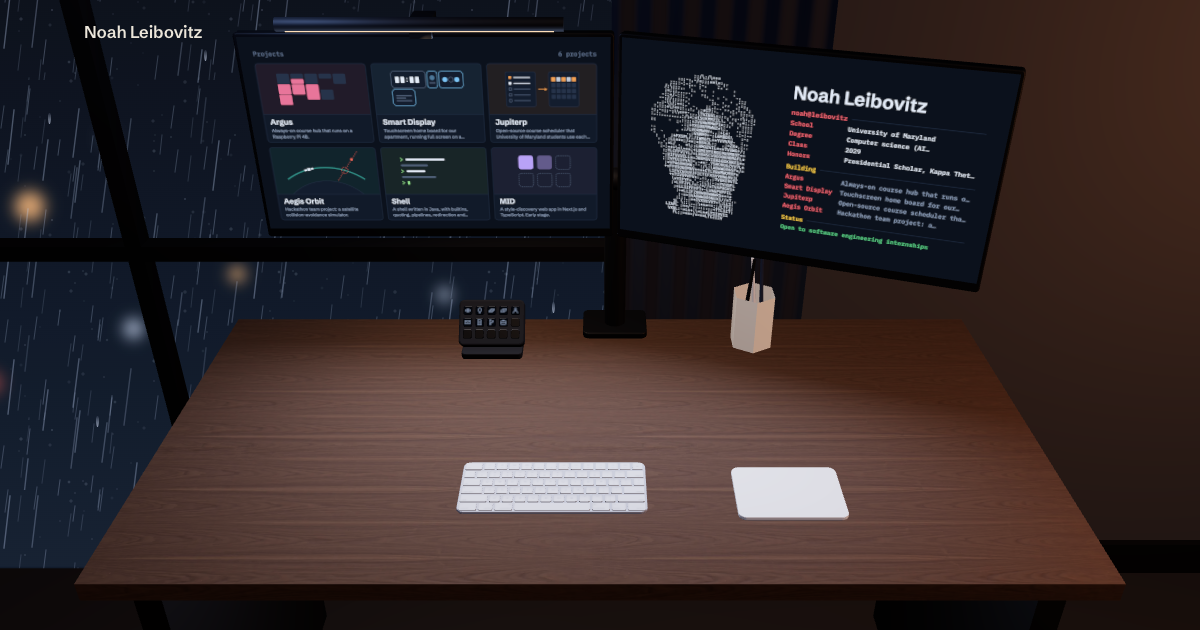
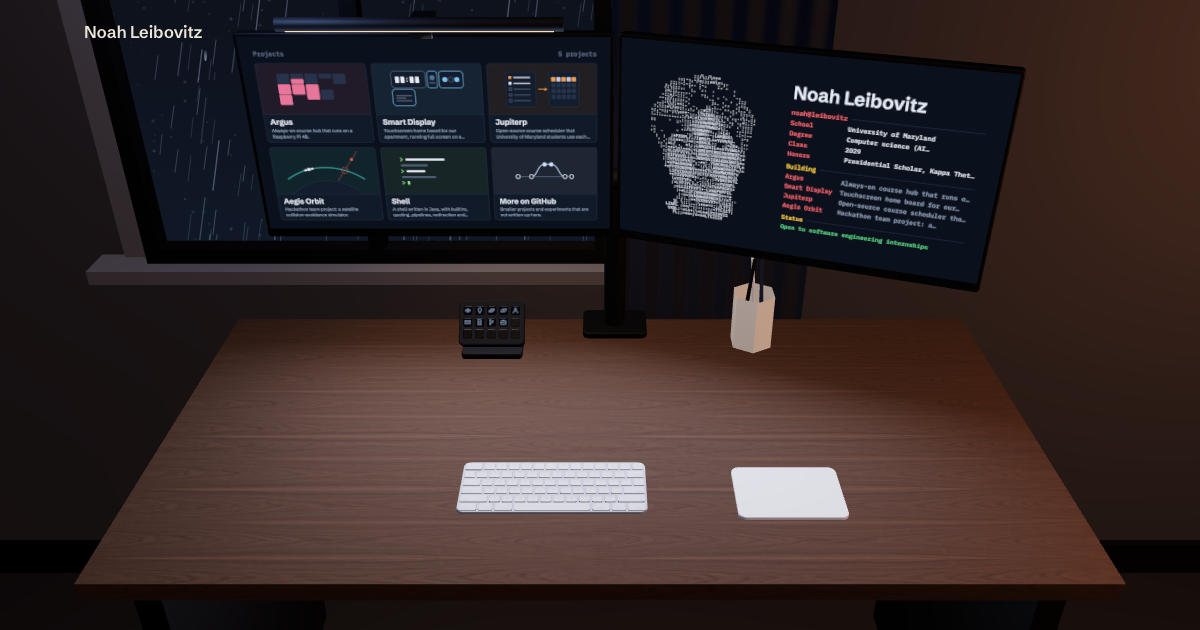
A window set into the wall, MID off the site, and a More on GitHub tile
The window was floor to ceiling across the left of the view and read as
a wall of glass. It is now an ordinary window with trim and a sill, and
wall shows beside it, under it and above it.

MID moves to parkedProjects, since not much of it is built yet. The
Projects page and the left monitor end with a tile that leads to the
GitHub profile, so the grid of six stays full.

diff --git a/src/scene/objects/Room.tsx b/src/scene/objects/Room.tsx
@@ -63,7 +63,7 @@ function WallPanel({ x0, x1, y0, y1 }: { x0: number; x1: number; y0: number; y1:
 function Curtain() {
   const geometry = useMemo(() => {
     const width = CURTAIN.right - CURTAIN.left;
-    const sheet = new PlaneGeometry(width, WINDOW.top - FLOOR_Y, CURTAIN.folds * 8, 1);
+    const sheet = new PlaneGeometry(width, CURTAIN.top - FLOOR_Y, CURTAIN.folds * 8, 1);
     const position = sheet.attributes.position;
     for (let i = 0; i < position.count; i++) {
       const along = (position.getX(i) / width + 0.5) * CURTAIN.folds * Math.PI * 2;
@@ -77,7 +77,7 @@ function Curtain() {
   const z = WALL_Z + WINDOW.depth + CURTAIN.depth + 0.004;
   return (
     <>
-      <mesh geometry={geometry} position={[x, (WINDOW.top + FLOOR_Y) / 2, z]} material={materials.curtain} />
+      <mesh geometry={geometry} position={[x, (CURTAIN.top + FLOOR_Y) / 2, z]} material={materials.curtain} />
       {/* A weighted hem, so the curtain ends in a straight edge at the floor. */}
       <mesh position={[x, FLOOR_Y + 0.04, z + CURTAIN.depth]} material={materials.curtain}>
         <boxGeometry args={[CURTAIN.right - CURTAIN.left, 0.08, 0.006]} />
@@ -87,48 +87,69 @@ function Curtain() {
 }
 
 /**
- * The room behind the desk: a back wall with a tall window on the left, the
- * window's frame, a curtain drawn back, and the floor.
+ * The room behind the desk: a back wall with a window in it, the window's
+ * trim, sill and frame, a curtain drawn back beside it, and the floor.
  *
  * Nothing is drawn where the glass is. The canvas is transparent there, and
  * the rain behind it (Rain.tsx) is an ordinary page layer. So the weather
  * moves without the 3D scene drawing a single frame.
  */
 export function Room() {
-  const { left, right, top, bar, depth } = WINDOW;
+  const { left, right, bottom, top, bar, depth, sill, trim } = WINDOW;
+  const width = right - left;
+  const height = top - bottom;
+  const middleX = (left + right) / 2;
+  const middleY = (top + bottom) / 2;
   const frameZ = WALL_Z + depth / 2;
-  const height = top - FLOOR_Y;
-  const middleY = (top + FLOOR_Y) / 2;
+  const trimZ = WALL_Z + 0.006;
 
   return (
     <>
+      {/* The wall, in four panels around the opening. */}
       <WallPanel x0={-FAR} x1={left} y0={FLOOR_Y} y1={FAR} />
       <WallPanel x0={right} x1={FAR} y0={FLOOR_Y} y1={FAR} />
       <WallPanel x0={left} x1={right} y0={top} y1={FAR} />
+      <WallPanel x0={left} x1={right} y0={FLOOR_Y} y1={bottom} />
 
-      {/* The frame: the two sides, then the bars between the panes. */}
-      {[left, right, ...WINDOW.uprights].map((x) => (
+      {/* Painted trim around the opening: the two sides and the head. */}
+      {[left - trim / 2, right + trim / 2].map((x) => (
+        <mesh key={x} position={[x, middleY + trim / 2, trimZ]} material={materials.trim}>
+          <boxGeometry args={[trim, height + trim, 0.012]} />
+        </mesh>
+      ))}
+      <mesh position={[middleX, top + trim / 2, trimZ]} material={materials.trim}>
+        <boxGeometry args={[width, trim, 0.012]} />
+      </mesh>
+
+      {/* The sill: a board that juts out under the window. It reaches past the
+          trim on the left and stops at the curtain on the right. */}
+      <mesh position={[middleX - (trim + sill.overhang) / 2, bottom - sill.thickness / 2, WALL_Z + sill.depth / 2]} material={materials.trim}>
+        <boxGeometry args={[width + trim + sill.overhang, sill.thickness, sill.depth]} />
+      </mesh>
+
+      {/* The frame: its four sides, then the bars between the panes. */}
+      {[left + bar / 2, right - bar / 2, ...WINDOW.uprights].map((x) => (
         <mesh key={x} position={[x, middleY, frameZ]} material={materials.windowFrame}>
           <boxGeometry args={[bar, height, depth]} />
         </mesh>
       ))}
-      {[top, ...WINDOW.rails].map((y) => (
-        <mesh key={y} position={[(left + right) / 2, y, frameZ]} material={materials.windowFrame}>
-          <boxGeometry args={[right - left, bar, depth]} />
+      {[top - bar / 2, bottom + bar / 2, ...WINDOW.rails].map((y) => (
+        <mesh key={y} position={[middleX, y, frameZ]} material={materials.windowFrame}>
+          <boxGeometry args={[width, bar, depth]} />
         </mesh>
       ))}
 
       {/* The glass: a faint cool sheen over the weather outside. */}
-      <mesh position={[(left + right) / 2, middleY, WALL_Z - 0.005]}>
-        <planeGeometry args={[right - left, height]} />
+      <mesh position={[middleX, middleY, WALL_Z - 0.005]}>
+        <planeGeometry args={[width, height]} />
         <meshBasicMaterial color="#9db4dc" transparent opacity={0.045} depthWrite={false} toneMapped={false} />
       </mesh>
 
       <Curtain />
 
-      {/* Skirting board along the plain part of the wall. */}
-      <mesh position={[(right + FAR) / 2, FLOOR_Y + 0.045, WALL_Z + 0.008]} material={materials.windowFrame}>
-        <boxGeometry args={[FAR - right, 0.09, 0.016]} />
+      {/* Skirting board along the foot of the wall. */}
+      <mesh position={[0, FLOOR_Y + 0.045, WALL_Z + 0.008]} material={materials.windowFrame}>
+        <boxGeometry args={[FAR * 2, 0.09, 0.016]} />
       </mesh>
 
       <mesh position={[0, FLOOR_Y, WALL_Z + FAR / 2]} rotation={[-Math.PI / 2, 0, 0]} material={materials.floor}>

diff --git a/src/scene/layout.ts b/src/scene/layout.ts
@@ -25,26 +25,32 @@ export const WALL_Z = -DESK.depth / 2 - 0.1;
 export const FLOOR_Y = -0.75;
 
 /**
- * The room. As in the reference photo, a tall window fills the left of the
- * back wall and runs down to the floor; the right of the wall is plain.
+ * The room's window: an ordinary window set into the back wall, behind the
+ * left monitor. Wall shows on every side of it: beside it at the left of the
+ * view, under its sill, and above its head.
  */
 export const WINDOW = {
-  left: -1.9,
-  right: 0.06,
-  bottom: FLOOR_Y,
-  top: 1.9,
+  left: -0.88,
+  right: 0.02,
+  /** The sill, a little above the desk so it shows under the monitors. */
+  bottom: 0.09,
+  top: 1.12,
   /** Width of the frame's bars. */
-  bar: 0.032,
+  bar: 0.03,
   /** How far the frame stands out from the wall. */
   depth: 0.04,
   /** Upright bars between the panes. */
-  uprights: [-0.9],
-  /** Cross bars: one just above the desk, where it shows under the monitors. */
-  rails: [0.11],
+  uprights: [-0.43],
+  /** Cross bars between the panes. High enough to clear the header on a wide screen. */
+  rails: [0.8],
+  /** The sill board: how far it reaches past the frame at each end, its thickness, and how far it juts out. */
+  sill: { overhang: 0.05, thickness: 0.028, depth: 0.075 },
+  /** The trim around the opening, wider than the frame it holds. */
+  trim: 0.055,
 } as const;
 
 /** The curtain, drawn back against the window's right edge. */
-export const CURTAIN = { left: 0.02, right: 0.4, folds: 7, depth: 0.012 } as const;
+export const CURTAIN = { left: 0.02, right: 0.4, top: 1.5, folds: 7, depth: 0.012 } as const;
 
 // Monitors: 27-inch 16:9 -------------------------------------------------
 

diff --git a/src/scene/textures/screens.ts b/src/scene/textures/screens.ts
@@ -55,7 +55,7 @@ function label(ctx: CanvasRenderingContext2D, fonts: ScreenFonts, text: string, 
  * Left monitor: the project grid. Each card is the same button the Projects
  * page shows: the project's cover in its own color, then its name.
  */
-export function projectGrid(projects: Project[]): ScreenDrawer {
+export function projectGrid(projects: Project[], more?: { slug: string; title: string; summary: string }): ScreenDrawer {
   return (ctx, fonts) => {
     const { width, height } = SCREEN_SIZE;
     ctx.fillStyle = ink.bg;
@@ -68,8 +68,10 @@ export function projectGrid(projects: Project[]): ScreenDrawer {
     label(ctx, fonts, `${projects.length} projects`, width - pad, 66);
     ctx.textAlign = "left";
 
+    // The cards: every project, then the tile that leads to the rest.
+    const cards: { slug: string; title: string; summary: string; accent?: string }[] = more ? [...projects, more] : projects;
     const cols = 3;
-    const rows = Math.ceil(projects.length / cols);
+    const rows = Math.ceil(cards.length / cols);
     const gap = 20;
     const top = 92;
     const cardW = (width - pad * 2 - gap * (cols - 1)) / cols;
@@ -77,10 +79,10 @@ export function projectGrid(projects: Project[]): ScreenDrawer {
     // The cover takes the top of the card; the words need about 100 px.
     const artH = Math.max(60, cardH - 104);
 
-    projects.forEach((project, i) => {
+    cards.forEach((project, i) => {
       const x = pad + (i % cols) * (cardW + gap);
       const y = top + Math.floor(i / cols) * (cardH + gap);
-      const accent = project.accent ?? ink.text;
+      const accent = project.accent ?? "#cfe0ff";
 
       ctx.fillStyle = ink.panel;
       ctx.beginPath();

diff --git a/src/content/projects.ts b/src/content/projects.ts
@@ -331,6 +331,15 @@ export const projects: Project[] = [
       team: null,
     },
   },
+];
+
+/**
+ * Off the site for now, at Noah's request (2026-11-11). Nothing links to these
+ * and no page is built for them. To bring one back, move its entry into
+ * `projects` above. MID came off because not much of it is built yet.
+ * SKIBUS's miniature is still in src/miniatures/skibus, and MID's cover in src/covers.
+ */
+export const parkedProjects: Project[] = [
   {
     slug: "mid",
     title: "MID",
@@ -355,14 +364,6 @@ export const projects: Project[] = [
       team: null,
     },
   },
-];
-
-/**
- * Off the site for now, at Noah's request (2026-11-11). Nothing links to these
- * and no page is built for them. To bring one back, move its entry into
- * `projects` above. SKIBUS's miniature is still in src/miniatures/skibus.
- */
-export const parkedProjects: Project[] = [
   {
     slug: "skibus",
     title: "SKIBUS",
@@ -402,6 +403,16 @@ export const parkedProjects: Project[] = [
     },
   },
 ];
+
+/**
+ * The last tile on the Projects page: where the rest of the work is.
+ * It keeps the grid full now that five projects are written up.
+ */
+export const moreProjects = {
+  slug: "more",
+  title: "More on GitHub",
+  summary: "Smaller projects and experiments that are not written up here.",
+};
 
 export const featuredProjects = projects.filter((p) => p.featured);
 

diff --git a/src/components/ProjectTiles.tsx b/src/components/ProjectTiles.tsx
@@ -7,7 +7,9 @@ import Cover from "@/covers/Cover";
  * The projects as large buttons: the grid the left monitor shows, at full
  * size. Each tile carries the project's cover, in the project's own color.
  */
-export default function ProjectTiles({ projects }: { projects: Project[] }) {
+type More = { slug: string; title: string; summary: string; href: string; where: string };
+
+export default function ProjectTiles({ projects, more }: { projects: Project[]; more?: More }) {
   return (
     <ul className="tiles">
       {projects.map((project) => (
@@ -24,6 +26,21 @@ export default function ProjectTiles({ projects }: { projects: Project[] }) {
           </Link>
         </li>
       ))}
+      {/* The last tile leads off the site, to the rest of the work. */}
+      {more && (
+        <li>
+          <a href={more.href} className="tile tile-more" target="_blank" rel="noopener noreferrer">
+            <span className="tile-art">
+              <Cover slug={more.slug} />
+            </span>
+            <span className="tile-text">
+              <span className="tile-title">{more.title}</span>
+              <span className="tile-summary">{more.summary}</span>
+              <span className="tile-stack">{more.where}</span>
+            </span>
+          </a>
+        </li>
+      )}
     </ul>
   );
 }

diff --git a/src/scene/objects/Monitors.tsx b/src/scene/objects/Monitors.tsx
@@ -5,7 +5,7 @@ import { Quaternion, Vector3 } from "three";
 import { RectAreaLightUniformsLib } from "three/examples/jsm/lights/RectAreaLightUniformsLib.js";
 import { about } from "@/content/about";
 import { portraitFront } from "@/content/portrait-front";
-import { featuredProjects, projects } from "@/content/projects";
+import { featuredProjects, moreProjects, projects } from "@/content/projects";
 import { slab } from "../geometry";
 import { OutlineFrame, pointerHandlers } from "../Highlight";
 import { ARM_BASE, LIGHT_BAR, MONITOR, MONITORS, type MonitorPlacement, type Vec3 } from "../layout";
@@ -18,7 +18,7 @@ import { useScreenTexture } from "../textures/useScreenTexture";
 RectAreaLightUniformsLib.init();
 
 const screens: Record<MonitorPlacement["id"], ScreenDrawer> = {
-  "monitor-left": projectGrid(projects),
+  "monitor-left": projectGrid(projects, moreProjects),
   "monitor-right": profile(about, portraitFront, featuredProjects),
 };
 

diff --git a/src/covers/shapes.ts b/src/covers/shapes.ts
@@ -151,6 +151,14 @@ const mid: Shape[] = [0, 1, 2, 3, 4, 5].map((i): Shape => {
   return { d, stroke: "dim", width: 1.5, dash: [4, 4] };
 });
 
+// More on GitHub: a line of commits with a branch that joins it again.
+const more: Shape[] = [
+  { d: "M56 112H264", stroke: "dim", width: 2.5 },
+  { d: "M108 112C132 112 132 62 160 62H186C214 62 214 112 238 112", stroke: "accent", width: 2.5 },
+  ...[56, 108, 238, 264].map((x) => ({ d: circle(x, 112, 8), fill: "panel" as Ink, stroke: "ink" as Ink, width: 2.5 })),
+  ...[160, 186].map((x) => ({ d: circle(x, 62, 8), fill: "accent" as Ink })),
+];
+
 export const covers: Record<string, Shape[]> = {
   argus,
   "smart-display": smartDisplay,
@@ -158,4 +166,5 @@ export const covers: Record<string, Shape[]> = {
   "aegis-orbit": aegisOrbit,
   shell,
   mid,
+  more,
 };

diff --git a/src/app/projects/page.tsx b/src/app/projects/page.tsx
@@ -1,7 +1,8 @@
 import type { Metadata } from "next";
 import Page from "@/components/Page";
 import ProjectTiles from "@/components/ProjectTiles";
-import { projects } from "@/content/projects";
+import { contact } from "@/content/contact";
+import { moreProjects, projects } from "@/content/projects";
 import "./projects.css";
 
 export const metadata: Metadata = {
@@ -17,7 +18,10 @@ export default function Projects() {
         <h1>Projects</h1>
         <p>{projects.length} projects</p>
       </header>
-      <ProjectTiles projects={projects} />
+      <ProjectTiles
+        projects={projects}
+        more={contact.github ? { ...moreProjects, href: contact.github, where: contact.github.replace(/^https?:\/\//, "") } : undefined}
+      />
     </Page>
   );
 }

diff --git a/src/scene/materials.ts b/src/scene/materials.ts
@@ -22,6 +22,8 @@ export const materials = {
   wall: m("#4a4541", 1),
   floor: m("#2a2522", 0.95),
   windowFrame: m("#0b0c0e", 0.85),
+  /** The painted trim around the window, and its sill. */
+  trim: m("#6b655f", 0.8),
   curtain: m("#2c2f38", 1),
   deskLegs: m("#0e0e0f", 0.9),
   pens: [m("#1b1c1f", 0.5), m("#2f3a4f", 0.5), m("#d9d6cf", 0.5), m("#6e6a64", 0.5)],

diff --git a/docs/features/room.md b/docs/features/room.md
@@ -4,14 +4,15 @@ Branch: `feature/room` (on top of `fix/page-close`).
 
 ## What it is
 
-The desk used to stand in front of a blank wall. It now stands in a room taken from the reference photo: a tall window fills the left of the back wall and runs to the floor, with a curtain drawn back at its edge, a plain warm wall on the right, and a floor. Outside it is a rainy night: rain falls in two sheets, drops run down the glass, lights sit out of focus in the distance, and now and then a car's headlights pass.
+The desk used to stand in front of a blank wall. It now stands in a room: an ordinary window is set into the back wall behind the left monitor, with painted trim, a sill, a curtain drawn back at its right edge, a plain warm wall on the right, and a floor. Outside it is a rainy night: rain falls in two sheets, drops run down the glass, lights sit out of focus in the distance, and now and then a car's headlights pass.
 
 ## Decisions
 
-- **The rain is not 3D.** Nothing is drawn where the glass is, so the canvas is transparent there, and the rain is an ordinary page layer behind it (`src/scene/Rain.tsx`, `rain.css`), animated by CSS transforms and opacity only. The 3D scene still draws **no frames while idle**, which was a goal of the original brief and keeps phones cool. Measured: 18,116 triangles (was 17,926), 66 draw calls (was 56), 0 idle frames, 60 fps on the M3 Pro at both sizes.
+- **The rain is not 3D.** Nothing is drawn where the glass is, so the canvas is transparent there, and the rain is an ordinary page layer behind it (`src/scene/Rain.tsx`, `rain.css`), animated by CSS transforms and opacity only. The 3D scene still draws **no frames while idle**, which was a goal of the original brief and keeps phones cool. Measured: 18,178 triangles (was 17,926), 72 draw calls (was 56), 0 idle frames, 60 fps on the M3 Pro at both sizes.
 - The rain layer fills the whole view; the window in the scene decides how much of it shows. That is why the scene's background color is gone: the wall, floor and frame must cover everything else.
 - The wall moved back 5 cm (`WALL_Z`) to make room for the window frame and curtain behind the desk.
-- Window bars: one upright near the left edge of the view and one cross bar just above the desk, where it shows under the monitors. A bar higher up would be hidden behind the screens.
+- **It is a window in a wall, not a wall of glass** (Noah, after the first version: "it looks like the window is the entire wall"). The first version ran floor to ceiling across the whole left of the view. Now wall shows on every side: a strip beside it at the left of the view with the window's trim, wall under the sill (the sill sits 9 cm above the desk so it shows under the monitors), and wall above its head (visible on a phone). The sizes are those of a real window: sill 84 cm above the floor, head 187 cm, 90 cm wide.
+- Window bars: one upright in the middle and one cross bar, high enough to stay clear of the header on a wide screen.
 - A faint cool light comes in from the window on the desk's left; the warm fill on the right is unchanged.
 - With a page open, the rain pauses and dims to 15%, so no light shows through behind the page's text.
 - Reduced motion: the rain is a still picture. Without WebGL there is no scene and no rain.

diff --git a/CLAUDE.md b/CLAUDE.md
@@ -16,7 +16,8 @@ Priorities, in order: (1) any project is readable within two clicks, on a phone 
 - The phase branches (`phase-0-blockout` … `github-pages`) exist only locally and are fully contained in `main`.
 - Work from here on: small changes can go straight to `main` if Noah asks for them to be published; otherwise use a branch and ask before pushing, because a push to `main` goes live.
 - **Project pages as stories: published 2026-11-11** (Noah: "Publish it"). Six projects are on the site, each with a story page; five have a miniature (MID has none). SKIBUS is parked. The branch `project-pages` is merged into `main`. The story texts are still drafts that Noah has not confirmed line by line; see the open questions.
-- **Four features wait on their own branches (2026-11-11). None is merged into `main` or published.** `feature/projects-index` (Projects page as tiles), `feature/room` (a room and a rainy window), `feature/about-page` (profile card with the ASCII portrait), `feature/contact-page` (note paper). All four start from `fix/page-close` and merge with each other without conflicts. `preview/all-features` merges all four, for looking at only. Noah decides which to keep: merge the chosen branches into `main`, run `npm run share-image`, and publish only when he says so.
+- **All four features are kept and merged into `main` (2026-11-11), not yet published**: the Projects page as tiles, the room with a rainy window, the About profile card with the ASCII portrait, and the Contact note paper (Noah: "Keep everything"). Their notes are in `docs/features/`. The feature branches and `preview/all-features` still exist locally but are fully contained in `main`. `main` is ahead of the published site: push only when Noah says to publish.
+- **Five projects are on the site**: Argus, Smart Display, Jupiterp, Aegis Orbit, Shell. SKIBUS and MID are parked in `parkedProjects` (MID because not much of it is built yet). The Projects page and the left monitor end with a "More on GitHub" tile so the grid of six stays full.
 - Stop at the end of each phase, show screenshots at 1440×900 and 390×844, and wait.
 
 ## Stack

diff --git a/docs/features/projects-index.md b/docs/features/projects-index.md
@@ -4,7 +4,7 @@ Branch: `feature/projects-index` (on top of `fix/page-close`).
 
 ## What it is
 
-The Projects page was a plain list. It is now the left monitor's screen at full size: six large buttons, three to a row, each with a drawn cover in the project's own color, its name, one line and its stack. The left monitor in the 3D scene shows the same six tiles, so clicking it leads into what you were looking at.
+The Projects page was a plain list. It is now the left monitor's screen at full size: six large buttons, three to a row. Five are the projects, each with a drawn cover in the project's own color, its name, one line and its stack. The sixth, "More on GitHub", leads to the GitHub profile; it was added when MID came off the site, so the grid stays full. The left monitor in the 3D scene shows the same six tiles, so clicking it leads into what you were looking at.
 
 ## Decisions
 
